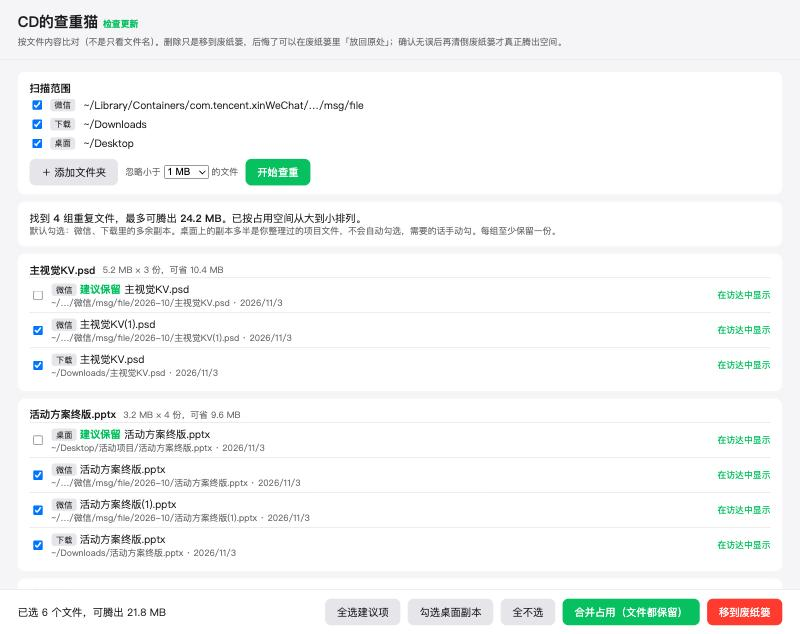
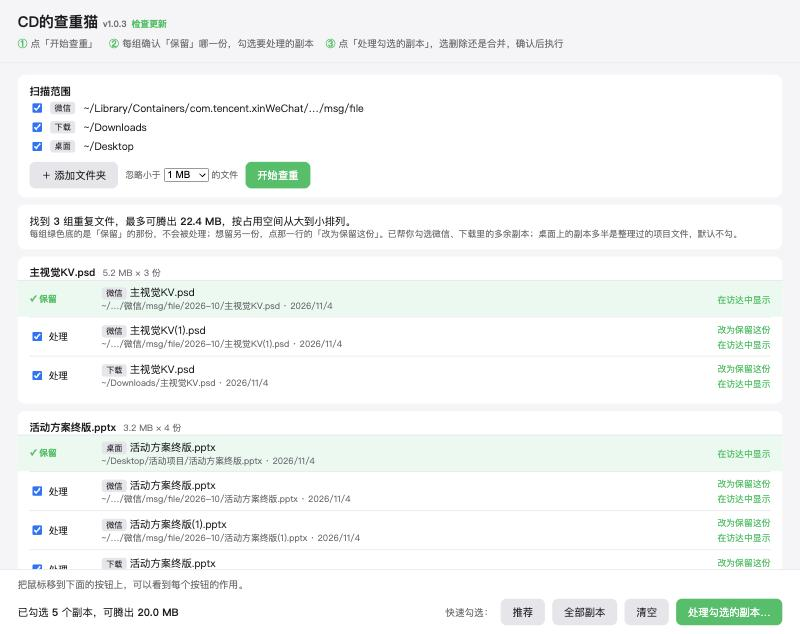
README：新界面截图

diff --git a/README.md b/README.md
@@ -32,6 +32,8 @@
 | 能不能反悔 | 废纸篓里「放回原处」 | 不需要反悔，文件都在 |
 | 适合 | 微信、下载里重复下载的文件 | 桌面上整理好的项目文件夹 |
 
+![确认弹窗](media/confirm.jpg)
+
 合并完就结束了，**不需要再移到废纸篓**；以后再扫描，合并过的不会再列出来。（合并后修改其中一份，另一份不会跟着变。）
 
 ## 安装
